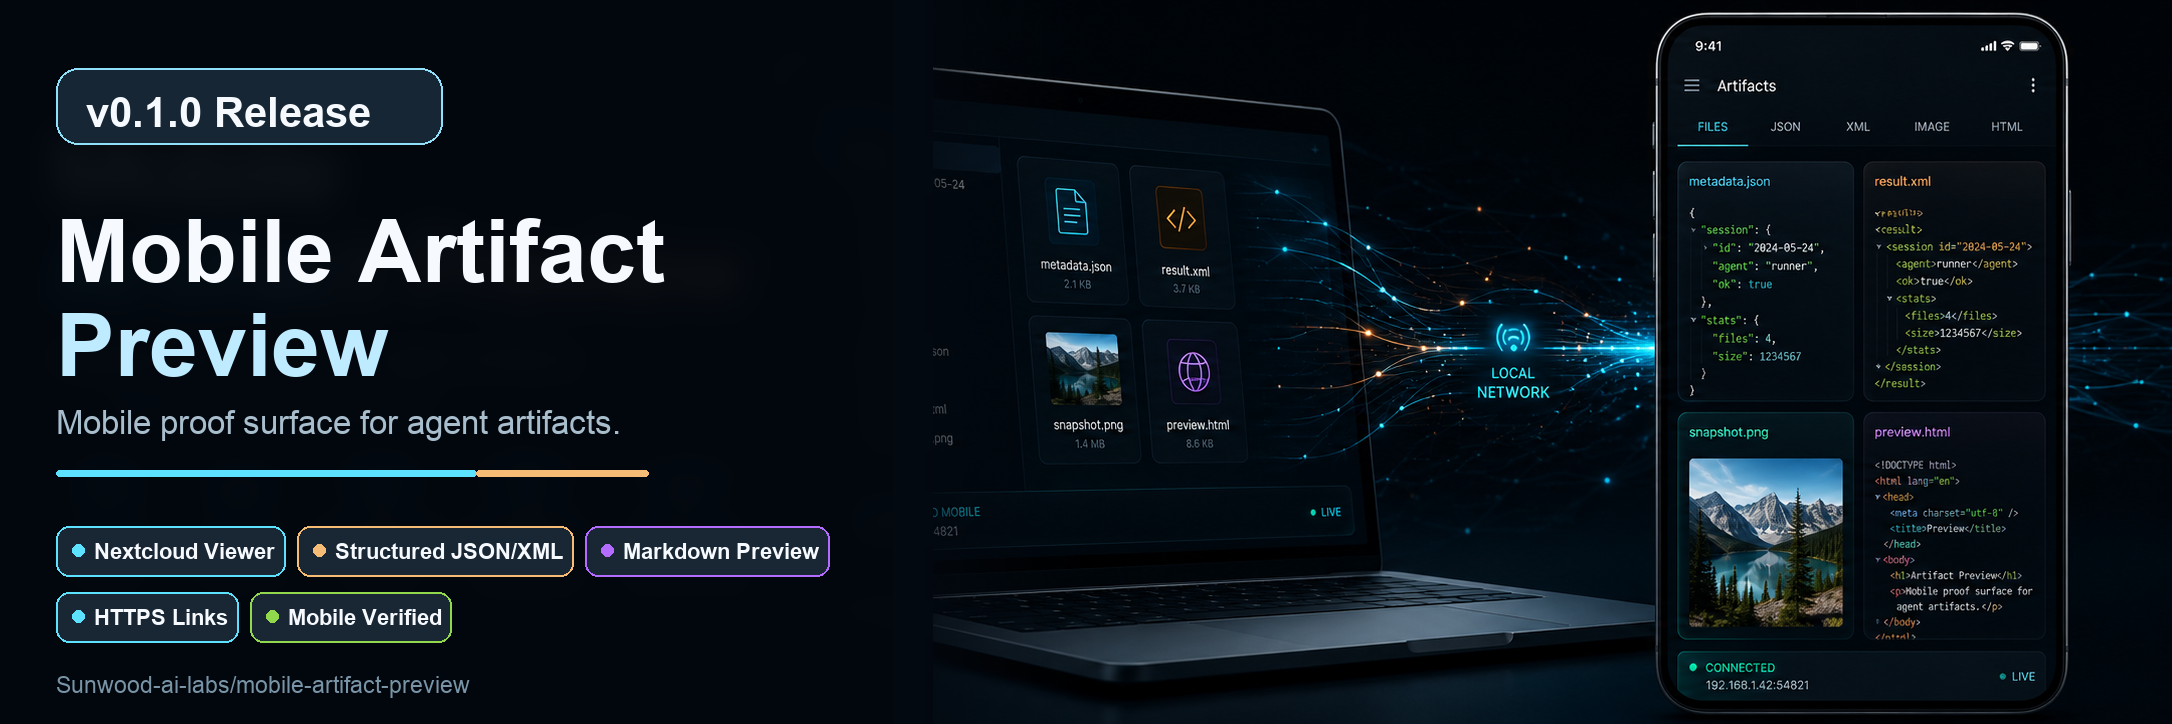
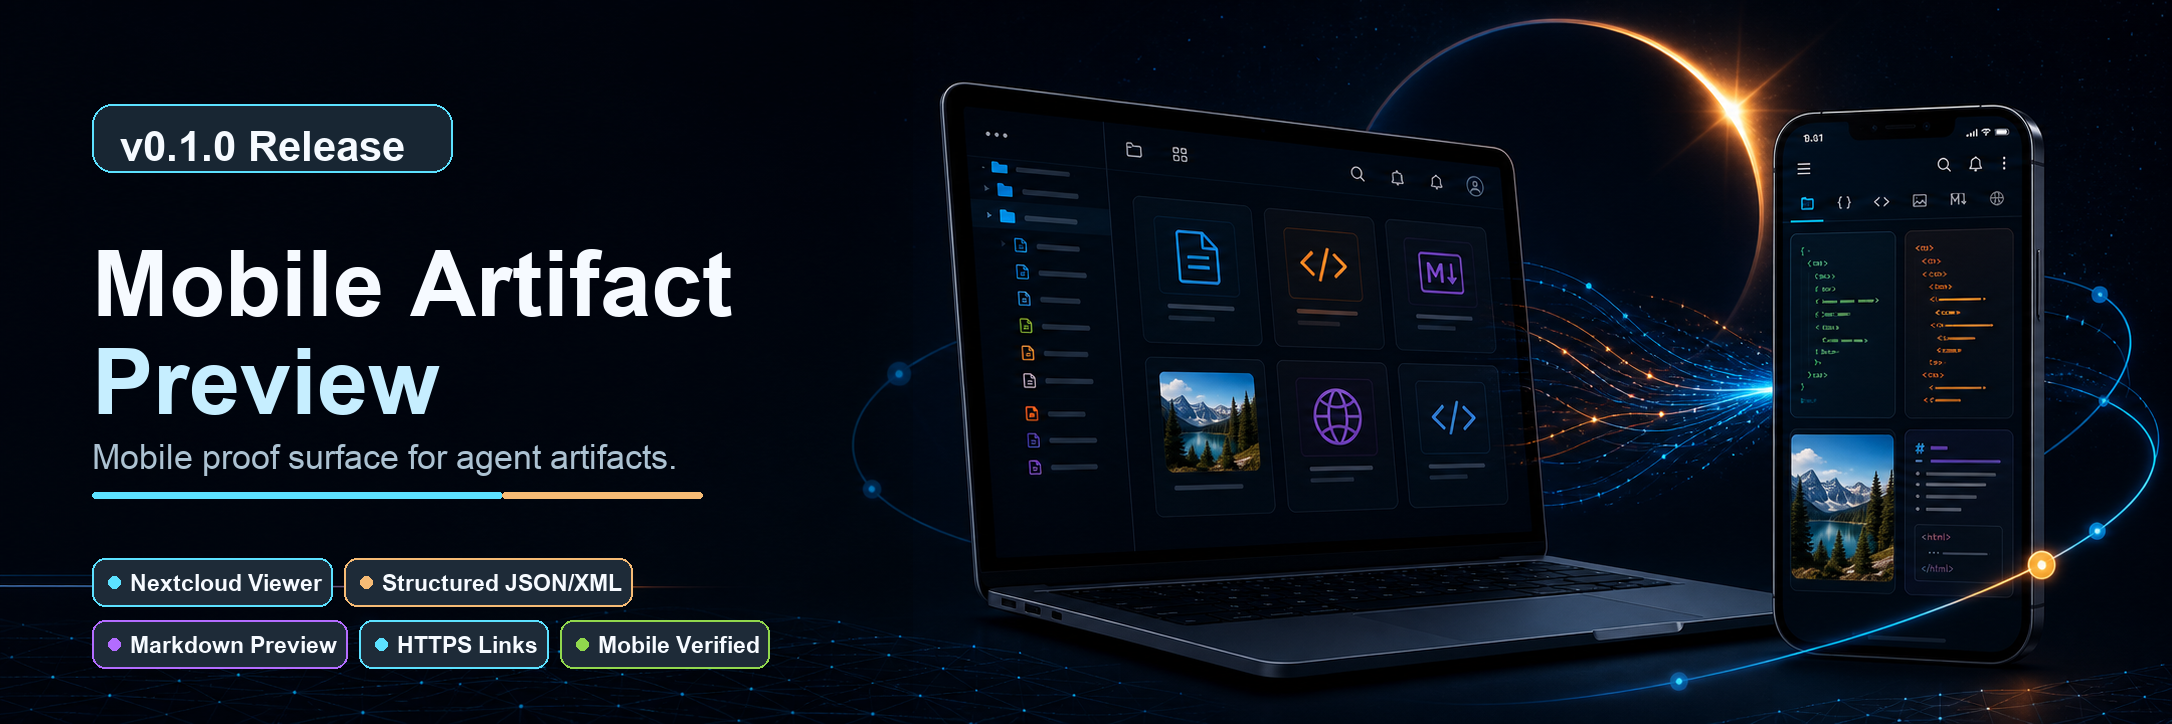
Use image generated v0.1.0 release header

diff --git a/tmp/release-qa-v0.1.0.md b/tmp/release-qa-v0.1.0.md
@@ -38,7 +38,7 @@
 | Responsive desktop/mobile wallpapers are included | `7ecf5d4`, `965c42d`, `docs/images/eclipse-*.png` | pass |
 | Translucent file surfaces and mobile wobble fixes are included | `16ccf24`, `174186f`, `20bd9a1` | pass |
 | Evidence screenshots and logo variants exist | `docs/images/` | pass |
-| v0.1.0 release header image exists | `docs/images/release-header-v0.1.0.png` | pass |
+| v0.1.0 release header image exists and uses image-gen artwork as its visual base | `docs/images/release-header-v0.1.0.png`, `docs/images/release-header-v0.1.0-imagegen-base.png` | pass |
 | Validation command passes | current run of `./scripts/validate-package.sh` | pass |
 
 ## Commit Coverage Audit
@@ -69,3 +69,5 @@ git diff --check
 
 - Existing uncommitted logo-transparency experiment files were intentionally excluded from the v0.1.0 release notes commit.
 - GitHub Release publication was not requested explicitly; this QA file treats `docs/releases/v0.1.0.md` as the release-note source body.
+
+- The final release header uses an image-gen generated visual base. Exact release text and feature chips were overlaid with Pillow to avoid generated typography errors.
